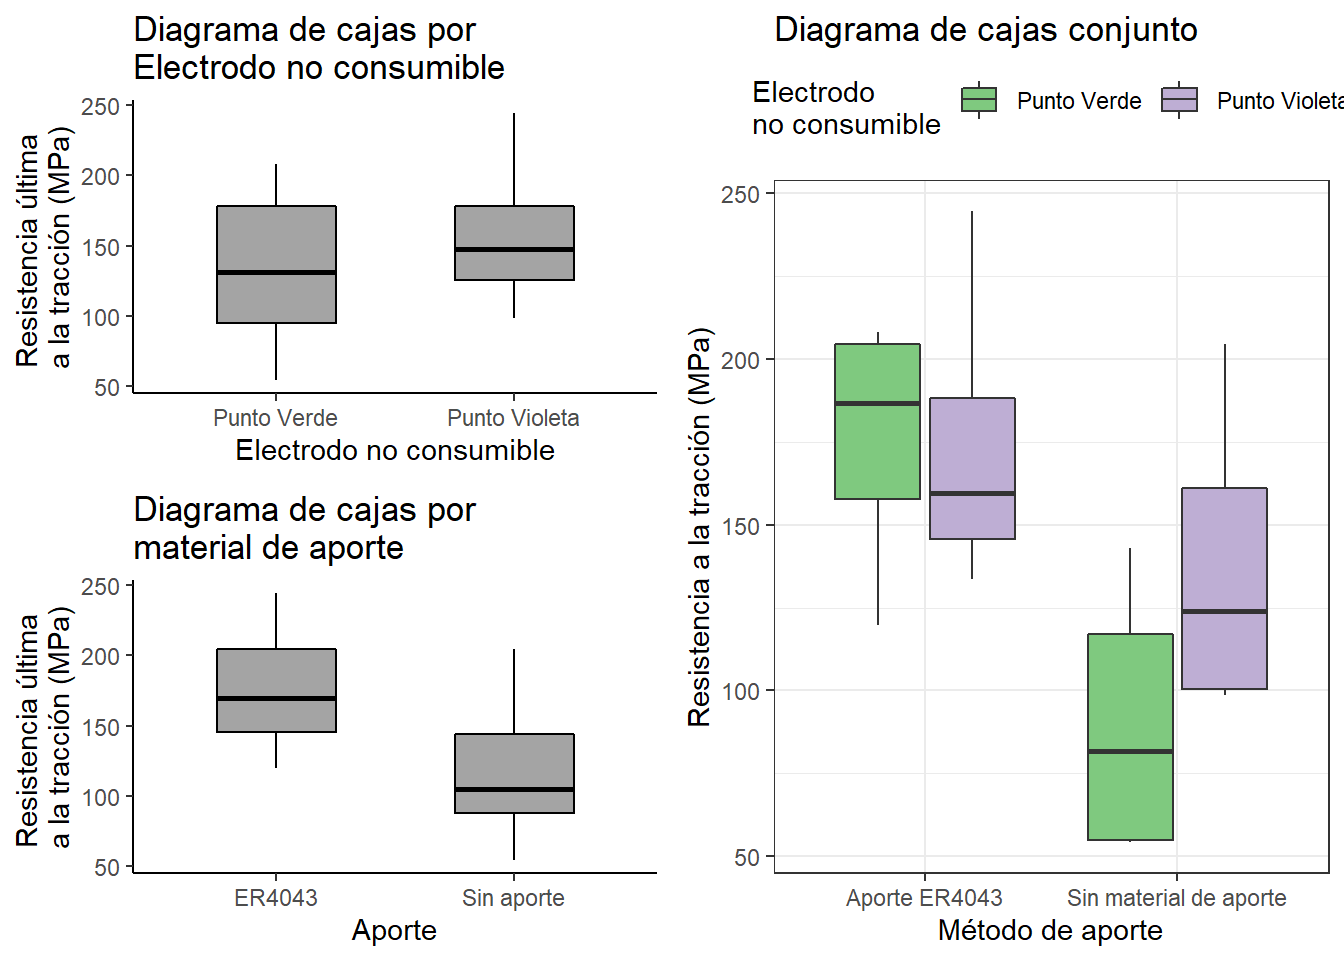
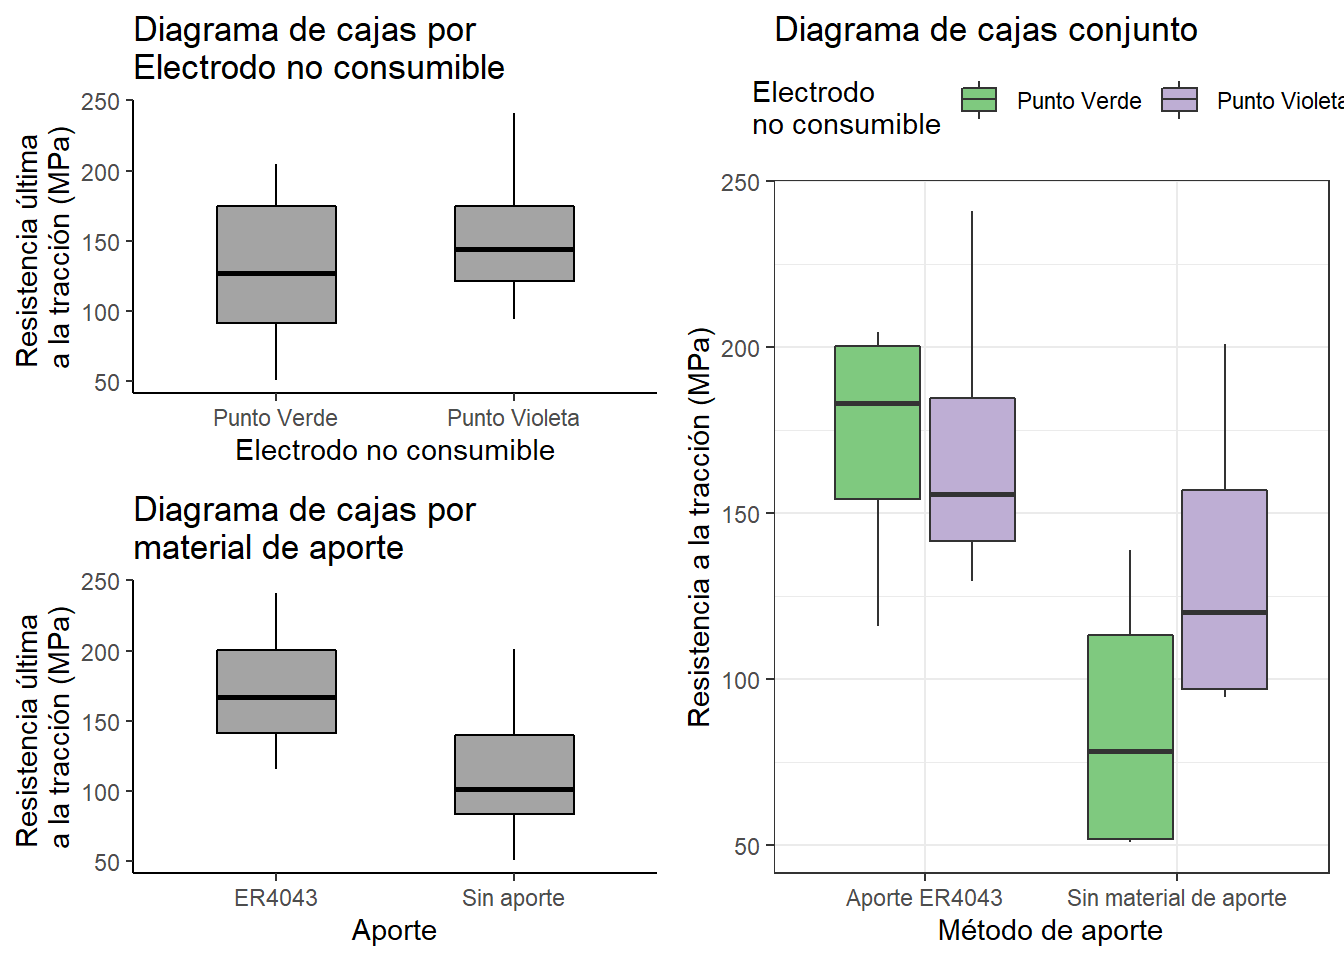
Correción por correción de datos de tensión.

diff --git a/index.html b/index.html
@@ -409,8 +409,8 @@ $(document).ready(function () {
 <p>Con los paquetes de liberías necesarios ya cargados, procedemos a importar los datos del experimiento. Estos datos se pueden también crear de forma manual como vectores y al final concatenar todo en un respectivo dataframe. Sin importar el método de creación del dataframe, se debe asegurar que quede categorizado así, para ello se hacen ciertas comprobaciones.</p>
 <div class="sourceCode" id="cb2"><pre class="sourceCode r"><code class="sourceCode r"><span id="cb2-1"><a href="#cb2-1"></a>datos_tension &lt;-<span class="st"> </span><span class="kw">read_excel</span>(<span class="st">&quot;Datos_tensión.xlsx&quot;</span>)</span>
 <span id="cb2-2"><a href="#cb2-2"></a>DT<span class="op">::</span><span class="kw">datatable</span>(datos_tension)</span></code></pre></div>
-<div id="htmlwidget-a3f1664522574e45b179" style="width:100%;height:auto;" class="datatables html-widget"></div>
-<script type="application/json" data-for="htmlwidget-a3f1664522574e45b179">{"x":{"filter":"none","data":[["1","2","3","4","5","6","7","8","9","10","11","12","13","14","15","16"],[119.847965403044,203.058657062759,208.106274839137,170.450922917897,133.718313118812,149.510856885432,244.411747951229,169.308099789505,142.904523648649,108.492510121457,54.3525295640198,55.2960060160428,98.7161182872254,146.446130111977,101.196159113546,204.370836364959],["Con_Aporte","Con_Aporte","Con_Aporte","Con_Aporte","Con_Aporte","Con_Aporte","Con_Aporte","Con_Aporte","Sin_Aporte","Sin_Aporte","Sin_Aporte","Sin_Aporte","Sin_Aporte","Sin_Aporte","Sin_Aporte","Sin_Aporte"],["P_verde","P_verde","P_verde","P_verde","P_Violeta","P_Violeta","P_Violeta","P_Violeta","P_verde","P_verde","P_verde","P_verde","P_Violeta","P_Violeta","P_Violeta","P_Violeta"],["I","I","II","II","I","I","II","II","I","I","II","II","I","I","II","II"]],"container":"<table class=\"display\">\n  <thead>\n    <tr>\n      <th> <\/th>\n      <th>Esfuerzo<\/th>\n      <th>Mat_Aporte<\/th>\n      <th>Electrodo<\/th>\n      <th>Repeat<\/th>\n    <\/tr>\n  <\/thead>\n<\/table>","options":{"columnDefs":[{"className":"dt-right","targets":1},{"orderable":false,"targets":0}],"order":[],"autoWidth":false,"orderClasses":false}},"evals":[],"jsHooks":[]}</script>
+<div id="htmlwidget-8cc824b2eb05a4fa2ea5" style="width:100%;height:auto;" class="datatables html-widget"></div>
+<script type="application/json" data-for="htmlwidget-8cc824b2eb05a4fa2ea5">{"x":{"filter":"none","data":[["1","2","3","4","5","6","7","8","9","10","11","12","13","14","15","16"],[115.846869715333,199.057051568978,204.502831070212,167.095575531601,129.507783415842,145.501470623103,240.901873875675,166.097207264539,138.881650337838,104.492481203008,50.851287637728,52.0840085466004,94.6128203824247,142.37455026777,97.7946588645418,200.869814100699],["Con_Aporte","Con_Aporte","Con_Aporte","Con_Aporte","Con_Aporte","Con_Aporte","Con_Aporte","Con_Aporte","Sin_Aporte","Sin_Aporte","Sin_Aporte","Sin_Aporte","Sin_Aporte","Sin_Aporte","Sin_Aporte","Sin_Aporte"],["P_verde","P_verde","P_verde","P_verde","P_Violeta","P_Violeta","P_Violeta","P_Violeta","P_verde","P_verde","P_verde","P_verde","P_Violeta","P_Violeta","P_Violeta","P_Violeta"],["I","I","II","II","I","I","II","II","I","I","II","II","I","I","II","II"]],"container":"<table class=\"display\">\n  <thead>\n    <tr>\n      <th> <\/th>\n      <th>Esfuerzo<\/th>\n      <th>Mat_Aporte<\/th>\n      <th>Electrodo<\/th>\n      <th>Repeat<\/th>\n    <\/tr>\n  <\/thead>\n<\/table>","options":{"columnDefs":[{"className":"dt-right","targets":1},{"orderable":false,"targets":0}],"order":[],"autoWidth":false,"orderClasses":false}},"evals":[],"jsHooks":[]}</script>
 <p>En caso de que el dataframe no haya considerado los respectivos factores como tal, es necesario hacer la transformación de las categorías.</p>
 <div class="sourceCode" id="cb3"><pre class="sourceCode r"><code class="sourceCode r"><span id="cb3-1"><a href="#cb3-1"></a>datos_tension<span class="op">$</span>Mat_Aporte&lt;-<span class="st"> </span><span class="kw">as.factor</span>(datos_tension<span class="op">$</span>Mat_Aporte)</span>
 <span id="cb3-2"><a href="#cb3-2"></a></span>
@@ -418,7 +418,7 @@ $(document).ready(function () {
 <p>Con el comando <em>str</em> veriicamos la naturaleza tanto de los factores como de la respuesta, esto se hace con el objetivo de evitar problemas al momento de ejecutar los modelos de regresión. Se puede observar como el esfuerzo, que es la variable respuesta, tiene categoría numérica y Material de Aporte y Electrodo tienen categoría factorial. Generalmente las réplicas no se incluyen en el dataframe, pero esta vez se realizó para demostrar que es un diseño balanceado.</p>
 <div class="sourceCode" id="cb4"><pre class="sourceCode r"><code class="sourceCode r"><span id="cb4-1"><a href="#cb4-1"></a><span class="kw">str</span>(datos_tension)</span></code></pre></div>
 <pre><code>## tibble [16 x 4] (S3: tbl_df/tbl/data.frame)
-##  $ Esfuerzo  : num [1:16] 120 203 208 170 134 ...
+##  $ Esfuerzo  : num [1:16] 116 199 205 167 130 ...
 ##  $ Mat_Aporte: Factor w/ 2 levels &quot;Con_Aporte&quot;,&quot;Sin_Aporte&quot;: 1 1 1 1 1 1 1 1 2 2 ...
 ##  $ Electrodo : Factor w/ 2 levels &quot;P_verde&quot;,&quot;P_Violeta&quot;: 1 1 1 1 2 2 2 2 1 1 ...
 ##  $ Repeat    : chr [1:16] &quot;I&quot; &quot;I&quot; &quot;II&quot; &quot;II&quot; ...</code></pre>
@@ -508,8 +508,8 @@ $(document).ready(function () {
 </table>
 </center>
 <p><br/><br/> Como herramienta adicional para entender la naturaleza del experimento, se presenta el siguiente diagrama de árbol, en el cual se evidencia el concepto de factorial completo, es decir, todos los niveles del segundo factor son igualmente probado en todos los niveles del primer factor.</p>
-<div id="htmlwidget-65ecd7ab1e7b0c07417c" style="width:672px;height:480px;" class="collapsibleTree html-widget"></div>
-<script type="application/json" data-for="htmlwidget-65ecd7ab1e7b0c07417c">{"x":{"data":{"name":"datos_tension","children":[{"name":"Con_Aporte","children":[{"name":"P_verde"},{"name":"P_Violeta"}]},{"name":"Sin_Aporte","children":[{"name":"P_verde"},{"name":"P_Violeta"}]}]},"options":{"hierarchy":["Mat_Aporte","Electrodo"],"input":null,"attribute":"leafCount","linkLength":null,"fontSize":10,"tooltip":false,"collapsed":true,"zoomable":true,"margin":{"top":20,"bottom":20,"left":90,"right":70},"fill":"lightsteelblue"}},"evals":[],"jsHooks":[]}</script>
+<div id="htmlwidget-7962239ff773d9525ae7" style="width:672px;height:480px;" class="collapsibleTree html-widget"></div>
+<script type="application/json" data-for="htmlwidget-7962239ff773d9525ae7">{"x":{"data":{"name":"datos_tension","children":[{"name":"Con_Aporte","children":[{"name":"P_verde"},{"name":"P_Violeta"}]},{"name":"Sin_Aporte","children":[{"name":"P_verde"},{"name":"P_Violeta"}]}]},"options":{"hierarchy":["Mat_Aporte","Electrodo"],"input":null,"attribute":"leafCount","linkLength":null,"fontSize":10,"tooltip":false,"collapsed":true,"zoomable":true,"margin":{"top":20,"bottom":20,"left":90,"right":70},"fill":"lightsteelblue"}},"evals":[],"jsHooks":[]}</script>
 </div>
 <div id="análisis-del-experimento" class="section level2">
 <h2>Análisis del experimento</h2>
@@ -533,8 +533,8 @@ $(document).ready(function () {
 </thead>
 <tbody>
 <tr class="odd">
-<td align="center">174.8</td>
-<td align="center">114</td>
+<td align="center">171.1</td>
+<td align="center">110.2</td>
 </tr>
 </tbody>
 </table>
@@ -554,8 +554,8 @@ $(document).ready(function () {
 </thead>
 <tbody>
 <tr class="odd">
-<td align="center">132.8</td>
-<td align="center">156</td>
+<td align="center">129.1</td>
+<td align="center">152.2</td>
 </tr>
 </tbody>
 </table>
@@ -578,13 +578,13 @@ $(document).ready(function () {
 <tbody>
 <tr class="odd">
 <td align="center"><strong>Con_Aporte</strong></td>
-<td align="center">175.4</td>
-<td align="center">174.2</td>
+<td align="center">171.6</td>
+<td align="center">170.5</td>
 </tr>
 <tr class="even">
 <td align="center"><strong>Sin_Aporte</strong></td>
-<td align="center">90.26</td>
-<td align="center">137.7</td>
+<td align="center">86.58</td>
+<td align="center">133.9</td>
 </tr>
 </tbody>
 </table>
@@ -731,32 +731,32 @@ $(document).ready(function () {
 <tr class="odd">
 <td align="center"><strong>Mat_Aporte</strong></td>
 <td align="center">1</td>
-<td align="center">14801</td>
-<td align="center">14801</td>
-<td align="center">7.066</td>
-<td align="center">0.02086</td>
+<td align="center">14796</td>
+<td align="center">14796</td>
+<td align="center">7.053</td>
+<td align="center">0.02095</td>
 </tr>
 <tr class="even">
 <td align="center"><strong>Electrodo</strong></td>
 <td align="center">1</td>
-<td align="center">2143</td>
-<td align="center">2143</td>
-<td align="center">1.023</td>
-<td align="center">0.3318</td>
+<td align="center">2136</td>
+<td align="center">2136</td>
+<td align="center">1.018</td>
+<td align="center">0.3329</td>
 </tr>
 <tr class="odd">
 <td align="center"><strong>Mat_Aporte:Electrodo</strong></td>
 <td align="center">1</td>
-<td align="center">2357</td>
-<td align="center">2357</td>
-<td align="center">1.125</td>
-<td align="center">0.3097</td>
+<td align="center">2348</td>
+<td align="center">2348</td>
+<td align="center">1.119</td>
+<td align="center">0.3109</td>
 </tr>
 <tr class="even">
 <td align="center"><strong>Residuals</strong></td>
 <td align="center">12</td>
-<td align="center">25137</td>
-<td align="center">2095</td>
+<td align="center">25173</td>
+<td align="center">2098</td>
 <td align="center">NA</td>
 <td align="center">NA</td>
 </tr>
@@ -771,23 +771,23 @@ $(document).ready(function () {
 <pre><code>## Tables of means
 ## Grand mean
 ##          
-## 144.3867 
+## 140.6545 
 ## 
 ##  Mat_Aporte 
 ## Mat_Aporte
 ## Con_Aporte Sin_Aporte 
-##     174.80     113.97 
+##     171.06     110.25 
 ## 
 ##  Electrodo 
 ## Electrodo
 ##   P_verde P_Violeta 
-##    132.81    155.96 
+##    129.10    152.21 
 ## 
 ##  Mat_Aporte:Electrodo 
 ##             Electrodo
 ## Mat_Aporte   P_verde P_Violeta
-##   Con_Aporte 175.37  174.24   
-##   Sin_Aporte  90.26  137.68</code></pre>
+##   Con_Aporte 171.63  170.50   
+##   Sin_Aporte  86.58  133.91</code></pre>
 <p>Con el modelo de anova también se pueden extraer los efectos principales de cada nivel de los respectivos factores.</p>
 <div class="sourceCode" id="cb11"><pre class="sourceCode r"><code class="sourceCode r"><span id="cb11-1"><a href="#cb11-1"></a><span class="kw">model.tables</span>(<span class="kw">aov</span>(modelo_lineal), <span class="st">&quot;effects&quot;</span>)</span></code></pre></div>
 <pre><code>## Tables of effects
@@ -795,18 +795,18 @@ $(document).ready(function () {
 ##  Mat_Aporte 
 ## Mat_Aporte
 ## Con_Aporte Sin_Aporte 
-##     30.415    -30.415 
+##     30.409    -30.409 
 ## 
 ##  Electrodo 
 ## Electrodo
 ##   P_verde P_Violeta 
-##   -11.573    11.573 
+##   -11.553    11.553 
 ## 
 ##  Mat_Aporte:Electrodo 
 ##             Electrodo
 ## Mat_Aporte   P_verde P_Violeta
-##   Con_Aporte  12.137 -12.137  
-##   Sin_Aporte -12.137  12.137</code></pre>
+##   Con_Aporte  12.115 -12.115  
+##   Sin_Aporte -12.115  12.115</code></pre>
 <div class="sourceCode" id="cb13"><pre class="sourceCode r"><code class="sourceCode r"><span id="cb13-1"><a href="#cb13-1"></a><span class="kw">plot.design</span>(Esfuerzo<span class="op">~</span>Mat_Aporte<span class="op">+</span>Electrodo, <span class="dt">fun=</span><span class="st">&quot;mean&quot;</span>, <span class="dt">data=</span>datos_tension, <span class="dt">main=</span><span class="st">&quot; Gráfica de efectos principales&quot;</span>, <span class="dt">ylab=</span> <span class="st">&quot;Resistencia a la tracción&quot;, xlab=&quot;</span>Factores<span class="st">&quot;)</span></span></code></pre></div>
 <p><img src="index_files/figure-html/unnamed-chunk-12-1.png" width="672" /></p>
 <p>Podemos llevar a cabo una prueba de comparación múltiple para seleccionar el mejor nivel del tratamiento, sin embargo, en nuestro caso particular que es solamente 2 niveles, con simple observación podemos sacar la conclusión.</p>
@@ -817,8 +817,8 @@ $(document).ready(function () {
 ## Fit: aov(formula = modelo_lineal)
 ## 
 ## $Mat_Aporte
-##                            diff       lwr      upr     p adj
-## Sin_Aporte-Con_Aporte -60.82975 -110.6898 -10.9697 0.0208617</code></pre>
+##                            diff       lwr       upr     p adj
+## Sin_Aporte-Con_Aporte -60.81867 -110.7148 -10.92259 0.0209545</code></pre>
 </div>
 <div id="modelo-de-regresión-lineal" class="section level3">
 <h3>Modelo de regresión lineal</h3>
@@ -833,14 +833,14 @@ $(document).ready(function () {
 ## 
 ## Residuals:
 ##     Min      1Q  Median      3Q     Max 
-## -55.518 -36.053  -4.922  28.955  70.174 
+## -55.779 -35.824  -4.467  28.793  70.400 
 ## 
 ## Coefficients:
 ##                                         Estimate Std. Error t value Pr(&gt;|t|)
-## (Intercept)                              175.366     22.884   7.663 5.82e-06
-## Mat_AporteSin_Aporte                     -85.105     32.363  -2.630    0.022
-## ElectrodoP_Violeta                        -1.129     32.363  -0.035    0.973
-## Mat_AporteSin_Aporte:ElectrodoP_Violeta   48.550     45.768   1.061    0.310
+## (Intercept)                              171.626     22.901   7.494 7.29e-06
+## Mat_AporteSin_Aporte                     -85.048     32.386  -2.626   0.0221
+## ElectrodoP_Violeta                        -1.123     32.386  -0.035   0.9729
+## Mat_AporteSin_Aporte:ElectrodoP_Violeta   48.459     45.801   1.058   0.3109
 ##                                            
 ## (Intercept)                             ***
 ## Mat_AporteSin_Aporte                    *  
@@ -849,9 +849,9 @@ $(document).ready(function () {
 ## ---
 ## Signif. codes:  0 &#39;***&#39; 0.001 &#39;**&#39; 0.01 &#39;*&#39; 0.05 &#39;.&#39; 0.1 &#39; &#39; 1
 ## 
-## Residual standard error: 45.77 on 12 degrees of freedom
-## Multiple R-squared:  0.4343, Adjusted R-squared:  0.2929 
-## F-statistic: 3.071 on 3 and 12 DF,  p-value: 0.0688</code></pre>
+## Residual standard error: 45.8 on 12 degrees of freedom
+## Multiple R-squared:  0.4337, Adjusted R-squared:  0.2921 
+## F-statistic: 3.064 on 3 and 12 DF,  p-value: 0.06923</code></pre>
 <p>También, se determinan los intervalos de confianza de los coeficientes del modelo de regresión lineal.</p>
 <div class="sourceCode" id="cb18"><pre class="sourceCode r"><code class="sourceCode r"><span id="cb18-1"><a href="#cb18-1"></a>int_conf=<span class="kw">confint</span>(modelo_lineal)</span></code></pre></div>
 <center>
@@ -871,22 +871,22 @@ $(document).ready(function () {
 <tbody>
 <tr class="odd">
 <td align="center"><strong>(Intercept)</strong></td>
-<td align="center">125.5</td>
-<td align="center">225.2</td>
+<td align="center">121.7</td>
+<td align="center">221.5</td>
 </tr>
 <tr class="even">
 <td align="center"><strong>Mat_AporteSin_Aporte</strong></td>
 <td align="center">-155.6</td>
-<td align="center">-14.59</td>
+<td align="center">-14.48</td>
 </tr>
 <tr class="odd">
 <td align="center"><strong>ElectrodoP_Violeta</strong></td>
-<td align="center">-71.64</td>
-<td align="center">69.38</td>
+<td align="center">-71.69</td>
+<td align="center">69.44</td>
 </tr>
 <tr class="even">
 <td align="center"><strong>Mat_AporteSin_Aporte:ElectrodoP_Violeta</strong></td>
-<td align="center">-51.17</td>
+<td align="center">-51.33</td>
 <td align="center">148.3</td>
 </tr>
 </tbody>
@@ -926,8 +926,8 @@ $(document).ready(function () {
 </thead>
 <tbody>
 <tr class="odd">
-<td align="center">0.9177</td>
-<td align="center">0.155</td>
+<td align="center">0.92</td>
+<td align="center">0.1689</td>
 </tr>
 </tbody>
 </table>
@@ -956,9 +956,9 @@ $(document).ready(function () {
 </thead>
 <tbody>
 <tr class="odd">
-<td align="center">0.1471</td>
+<td align="center">0.1562</td>
 <td align="center">3</td>
-<td align="center">0.9856</td>
+<td align="center">0.9843</td>
 </tr>
 </tbody>
 </table>
@@ -1206,33 +1206,33 @@ $(document).ready(function () {
 <tbody>
 <tr class="odd">
 <td align="center"><strong>Mat_Aporte</strong></td>
-<td align="center">14801</td>
+<td align="center">14796</td>
 <td align="center">1</td>
-<td align="center">14801</td>
-<td align="center">7.066</td>
-<td align="center">0.0242</td>
+<td align="center">14796</td>
+<td align="center">7.053</td>
+<td align="center">0.0214</td>
 </tr>
 <tr class="even">
 <td align="center"><strong>Electrodo</strong></td>
-<td align="center">2143</td>
+<td align="center">2136</td>
 <td align="center">1</td>
-<td align="center">2143</td>
-<td align="center">1.023</td>
+<td align="center">2136</td>
+<td align="center">1.018</td>
 <td align="center">0.3299</td>
 </tr>
 <tr class="odd">
 <td align="center"><strong>Mat_Aporte:Electrodo</strong></td>
-<td align="center">2357</td>
+<td align="center">2348</td>
 <td align="center">1</td>
-<td align="center">2357</td>
-<td align="center">1.125</td>
-<td align="center">0.3063</td>
+<td align="center">2348</td>
+<td align="center">1.119</td>
+<td align="center">0.3083</td>
 </tr>
 <tr class="even">
 <td align="center"><strong>Residuals</strong></td>
-<td align="center">25137</td>
+<td align="center">25173</td>
 <td align="center">12</td>
-<td align="center">2095</td>
+<td align="center">2098</td>
 <td align="center">NA</td>
 <td align="center">NA</td>
 </tr>
